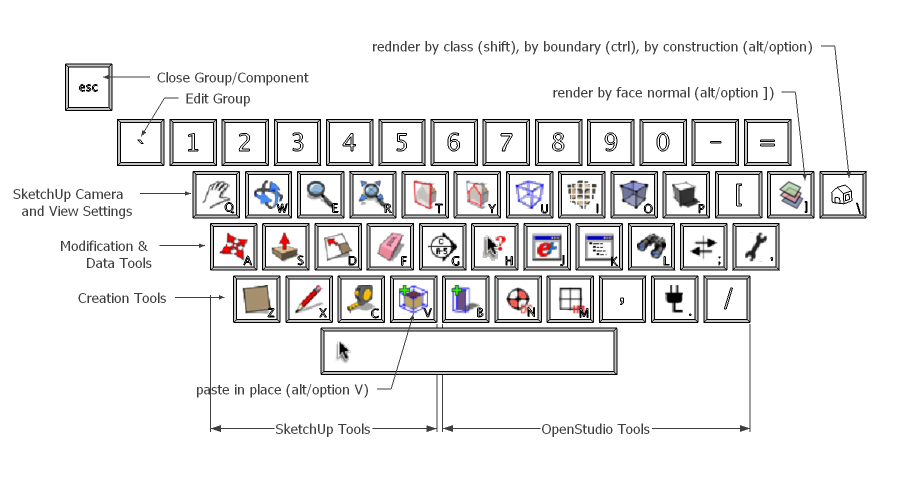
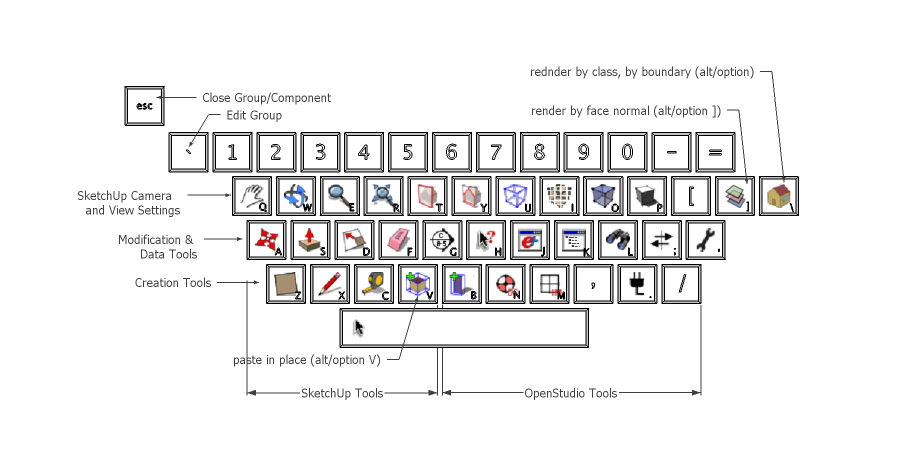
Updated round window tutorial. New by boundary tutorial, updated mac shortcut file, and new run file for mac with corrected permissions.

Changed region(s): [[0.0, 0.1244, 0.9644, 0.84], [0.2178, 0.84, 0.84, 0.9333], [0.4044, 0.0933, 0.9333, 0.1244]]

diff --git a/OpenStudio/doc/help/tut_round_window.html b/OpenStudio/doc/help/tut_round_window.html
@@ -108,7 +108,7 @@ function msout(num) {
 <ul>
 
     <li>As a rule of them in OpenStudio, you do not want to have a sub-surface share an edge with with another sub-surface or it's base surface. The exception is a door, which shares an edge with the bottom of it's base surface.</li>
-    <li>Another rule to follow is to only make subsurfaces as rectangles or triangles, not complex polygons, such as the object shown below. (note: complex polygons are fine for base surfaces such as walls and roofs)</li>
+    <li>Another rule to follow is to only make subsurfaces as rectangles, not complex polygons, such as the object shown below. (note: complex polygons are fine for base surfaces such as walls and roofs)</li>
     <br>
    <img src="dialogs/tut_round_win_01.png" width="500" alt=""><br></li>
          <P2i>(Credit: David Goldwasser/NREL)</P2i><br><br>
@@ -124,35 +124,35 @@ function msout(num) {
    <img src="dialogs/tut_round_win_03.png" width="500" alt=""><br></li>
          <P2i>(Credit: David Goldwasser/NREL)</P2i><br><br>
 
-    <li>Below shows a strategy to simply the surface while maintaining a good approximation of its size and geometry.</li>
-    <li>The circle is bisected with a triangle. Then to further refine it two more triangles are drawn bisecting the two circular segments. You could further refine it with more triangles, but three seems accurate enough here.</li>
+    <li>Shown below is a strategy to simply the surface while maintaining a good approximation of its size and geometry.</li>
+    <li>The semi-circle is filled with a series of rectangles.</li>
     <br>
-   <img src="dialogs/tut_round_win_04.png" width="500" alt=""><br></li>
+   <img src="dialogs/tut_round_win_04b.png" width="500" alt=""><br></li>
          <P2i>(Credit: David Goldwasser/NREL)</P2i><br><br>
 
-    <li>After drawing the circles, use the erase tool to remove the edges that were not included as part of the three triangles. This includes the segmented edges of the original offset semicircle.</li><br>
-   <img src="dialogs/tut_round_win_05.png" width="500" alt=""><br></li>
+    <li>After drawing the circles, use the erase tool to remove the edges that were not included as part of the rectangles. This includes the segmented edges of the original offset semicircle.</li><br>
+   <img src="dialogs/tut_round_win_05b.png" width="500" alt=""><br></li>
          <P2i>(Credit: David Goldwasser/NREL)</P2i><br><br>
 
-    <li>So now the windows are the correct geometry (triangles or rectangles), but there is still a problem.</li>
-    <li>The windows are sharing edges with each other, that has to be resolved.</li>
-    <li>Below the Offset Tool is used again to offset the main triangle in. 2&quot; was used, but you could make it 1/4&quot; if you wanted to.</li>
-    <li>Repeat this on the smaller triangles as well as shown below.</li>
+    <li>The windows are the correct geometry, but there is still a problem.</li>
+    <li>The windows are sharing edges with each other.</li>
+    <li>Below the Offset Tool is used  to offset the rectangles by two inches,  but you can use any value that works for </li>
     <br>
-    <img src="dialogs/tut_round_win_06.png" width="500" alt=""><br>
+    <img src="dialogs/tut_round_win_06b.png" width="500" alt=""><br>
     </li>
+         <P2i>(Credit: David Goldwasser/NREL)</P2i>
+         <br><br>
+
+    <li>Use the eraser tool to remove the edges of the original rectangles.</li><br>
+   <img src="dialogs/tut_round_win_07b.png" width="500" alt=""><br></li>
          <P2i>(Credit: David Goldwasser/NREL)</P2i><br><br>
 
-    <li>Use the eraser tool to remove the edge of the main triangle.</li><br>
-   <img src="dialogs/tut_round_win_07.png" width="500" alt=""><br></li>
+    <li>When subsurfaces have been drawn touching they may loose their base surface. If that happens you can retrace the rectangles, or cut them and paste in place (make sure edges selected, but not faces).</li><br>
+   <img src="dialogs/tut_round_win_08b.png" width="500" alt=""><br></li>
          <P2i>(Credit: David Goldwasser/NREL)</P2i><br><br>
 
-    <li>Below you can see the final product.</li><br>
-   <img src="dialogs/tut_round_win_08.png" width="500" alt=""><br></li>
-         <P2i>(Credit: David Goldwasser/NREL)</P2i><br><br>
-
-    <li>The surface area of your new window area will be slightly smaller than your original window that represents what is going to be built. This may be addressed by the fact that the window will have mullions, so the smaller one may actually be more accurate.</li>
-    <li>If you do want to really get a simulation based on the larger area, you can scale your windows up if your base surface provides enough space, or you can alter the material properties of the window construction used in this instance to make it slightly more translucent (mimicking a slightly larger surface). Just be careful if you choose this route, ad you do not want to alter the property in other areas using that material. So you need to make a unique window construction for this use.</li>
+    <li>The surface area of your new windows will be slightly smaller than your original window. </li>
+    <li>If you  want to really get a simulation based on the larger area, you can scale your windows up if your base surface provides enough space, or you can alter the material properties of the window construction used in this instance to make it slightly more translucent (mimicking a slightly larger surface). Just be careful if you choose this route. You do not want to alter the property in other areas using that window type. You need to make a unique window construction for this location.</li>
     <br>
 
 </ul>

diff --git a/OpenStudio/doc/help/tut_by_boundary.html b/OpenStudio/doc/help/tut_by_boundary.html
@@ -1,6 +1,7 @@
 <!DOCTYPE HTML PUBLIC "-//W3C//DTD HTML 4.01 Transitional//EN">
 <html>
 <head>
+<A NAME="top"></A>
 <title>OpenStudio Documentation: Tutorials</title>
 
 
@@ -83,7 +84,7 @@ function msout(num) {
 
 <a href="ref_guide.html" onMouseOver="msover('0')" onMouseOut="msout('0')"><img src="images/ln_ref_guide_off.gif" alt="Reference Guide" width="176" height="19" border="0" name="Image0"></a><br>
 <img src="images/gray.gif" alt="" width="176" height="7"><br>
-<img src="images/ln_tutorials_on.gif" alt="Tutorials" width="176" height="19" border="0" name="Image1"><br>
+<a href="tutorials.html"><img src="images/ln_tutorials_on.gif" alt="Tutorials" width="176" height="19" border="0" name="Image1"></a><br>
 <img src="images/gray.gif" alt="" width="176" height="7"><br>
 <a href="release_notes.html" onMouseOver="msover('2')" onMouseOut="msout('2')"><img src="images/ln_release_notes_off.gif" alt="Release Notes" width="176" height="19" border="0" name="Image2"></a><br>
 <img src="images/gray.gif" alt="" width="176" height="7"><br>
@@ -100,61 +101,62 @@ function msout(num) {
 
 
 
-<H2>Tutorials on OpenStudio Features</H2>
-<ul>
-<li><a href="tut_getting_started.html">Getting Started</a></li>
-<li><a href="tut_best_practices.html">Best Practices</a></li>
-<li><a href="tut_default_const_prefs.html">Default Constructions</a>
-  <P2i>(New)</P2i>
-</li>
-<li><a href="tut_matching_surfaces.html">Matching Surfaces</a>
-  <P2i>(New)</P2i>
-</li>
-<li><a href="tut_searching.html">Searching for EnergyPlus Objects</a>
-  <P2i>(New)</P2i>
-</li>
-<li><a href="tut_by_boundary.html">Render by Outside Boundary Condition</a>
-  <P2i>(New)</P2i>
-</li>
-<li><a href="tut_loads.html">Zone Loads</a>
-  <P2i>(New)</P2i>
-</li>
-<li><a href="tut_daylighting_controls.html">Daylighting Controls</a>
-  <P2i>(New)</P2i>
-</li>
-<li> <a href="tut_illuminance_map.html">Output Illuminance Maps</a>
-  <P2i>(New)</P2i>
-</li>
-<li><a href="tut_run_simulation.html">Run EnergyPlus</a></li>
-<li><a href="tut_view_results.html">View Simulation Results</a></li>
-<li><a href="tut_energyplus_dxf.html">Verify Geometry with EnergyPlus DXF Output</a></li>
-<li><a href="tut_cad_dxf.html">Convert 2D DXF to EnergyPlus</a></li>
-<li><a href="tut_building_maker.html">Convert 3-D CAD Models to EnergyPlus</a></li>
-</ul>
+<H2>Render by Outside Boundary Condition</H2>
+<br>
 
-<H2>Tutorials on native SketchUp Tools</H2>
+<div style="margin-left:10px">
 <ul>
-<!--<li><a href="tut_save_search.html"> Saving search results for later use</a></li><br>-->
-<li><a href="tut_reversed_normals.html">Using Styles to Show Reversed Faces</a></li>
-<li><a href="tut_round_window.html">Using the Offset Tool to Mimic Round Windows</a></li>
-<li><a href="tut_tips.html">Selection, Modeling, and Inference</a></li>
-<li><a href="tut_section_cut.html">Cameras, Scenes, and Sections Cuts</a></li>
-<li><a href="tut_shortcuts.html">Custom Shortcuts</a></li>
-<li><a href="tut_georeferencing.html">Geo-Referencing</a></li>
-<li><a href="tut_rotating.html">Rotating Axes and Cameras</a></li>
-<li><a href="tut_disabling_extensions.html">Disabling Extensions</a></li>
+    <li>The  typical rendering mode (shown below) in OpenStudio renders surfaces based on the class of the surface. For example, doors have a color, roofs, etc.</li>
+    <li>Render by Outside Boundary Condition instead renders surfaces based on their boundary condition.</li>
+    <li>If a wall and a floor have the same boundary condition, they would be rendered with the same color.<br>
+      <br>
+      <img src="dialogs/tut_RenderByBoundary_01.png" width="500" alt=""><br>
+    </li>
+  <P2i>(Credit: David Goldwasser/NREL)</P2i>
+  <br><br>
+</li>
 </ul>
+</div>
 
-<H2>Viewing Simulation Results Outside of OpenStudio</H2>
+<div style="margin-left:10px">
 <ul>
-<!--<li><a href="tut_save_search.html"> Saving search results for later use</a></li><br>-->
-<li><a href="tut_results_excel.html">Opening CSV files in Microsoft Excel</a></li>
-<li><a href="tut_results_viewer.html">Opening SQL files in Results Viewer</a></li>
+    <li>Here is the same model as shown above, but this time with the render mode set to &quot;by boundary&quot;. The tan is &quot;ground&quot; blue is &quot;outside&quot;, and the green represents &quot;surface&quot; boundary conditions. this is where surfaces of one zone are matched with surfaces of another zone.</li>
+    <li>If you look at the exterior of a model, you should see a lot of blue. If you want to see what is going on inside, the section cut tool works great. You can also turn on x-ray mode, but it can be tough to see what you are looking at.<br>
+      <br>
+      <img src="dialogs/tut_RenderByBoundary_02.png" width="500" alt=""><br>
+    </li>
+  <P2i>(Credit: David Goldwasser/NREL)</P2i>
+  <br>
+    <li>Below is an example with x-ray mode turned on.<br>
+      <br>
+      <img src="dialogs/tut_RenderByBoundary_05.png" width="500" alt=""><br>
+    </li>
+  <P2i>(Credit: David Goldwasser/NREL)</P2i>
+  <br><br></li>
 </ul>
+</div>
 
-					</td>
+<div style="margin-left:10px">
+<ul>
+    <li>There are 18 different colors for the outside boundary conditions.</li>
+    <li>Some of these are grouped. Four are outside conditions, and 9 are ground conditions.</li>
+    <li>Look at EnergyPlus's documentation to learn more about the boundary conditions.<br>
+      <br>
+      <img src="dialogs/tut_BoundaryColorWorksheet.png" width="500" alt=""><br>
+    </li>
+  <P2i>(Credit: David Goldwasser/NREL)</P2i>
+  <br><br>
+</li>
+</ul>
+</div>
+
+
+
+
+				  </td>
 				</tr>
 			</table>
+<P2i><A href="#top">Back to Top</A></P2i>
 <!-- end of main content table -->
 
 

diff --git a/OpenStudio/doc/help/ref_rendering.html b/OpenStudio/doc/help/ref_rendering.html
@@ -106,12 +106,25 @@ function msout(num) {
 <a href="ref_simulations.html#top">Running Simulations/Help</a><br>
 </H2>
 
-<H2>Rendering Options</H2>
-<P2><a href="ref_rendering.html#hide_rest"><img src="../../lib/resources/icons/HideRest-16.png"> Hide Rest of Model</a></P2><P2i>(Native SketchUp Feature)</P2i><br>
-<P2><a href="ref_rendering.html#view_hidden"><img src="../../lib/resources/icons/SU_ViewHidden-16.png"> View Hidden Geometry</a></P2><P2i>(Native SketchUp Feature)</P2i><br>
-<P2><a href="ref_rendering.html#x_ray"><img src="../../lib/resources/icons/tbRenderTransparentSmall.png"> View Model in X-ray Mode</a></P2><P2i>(Native SketchUp Feature)</P2i><br>
+<H2><a href="ref_rendering.html#top">Rendering Options</a></H2>
+<P2><a href="ref_rendering.html#hide_rest"><img src="../../lib/resources/icons/HideRest-16.png"> Hide Rest of Model</a></P2>
+<P2i> (Native SketchUp Feature)</P2i><br>
+<P2><a href="ref_rendering.html#view_hidden"><img src="../../lib/resources/icons/SU_ViewHidden-16.png"> View Hidden Geometry</a></P2>
+<P2i> (Native SketchUp Feature)</P2i><br>
+<P2><a href="ref_rendering.html#x_ray"><img src="../../lib/resources/icons/tbRenderTransparentSmall.png"> View Model in X-ray Mode</a></P2>
+<P2i> (Native SketchUp Feature)</P2i><br>
 <P2><a href="ref_rendering.html#render_by_surface"><img src="../../lib/resources/icons/RenderByType-16x16.png"> Render by Surface Class</a></P2><br>
 <P2><a href="ref_rendering.html#render_by_data"><img src="../../lib/resources/icons/RenderByData-16x16.png"> Render by Data</a></P2><br>
+<P2><a href="ref_rendering.html#render_by_boundary"><img src="../../lib/resources/icons/RenderByBoundary-16x16.png"> Render by Outside Boundary Condition</a></P2> 
+<P2><a href="ref_view_data.html#default_const_prefs"> </a></P2>
+<P2i>(New)</P2i>
+<br>
+<P2><a href="ref_rendering.html#render_by_layer"> Render by Layer</a></P2> 
+<P2i>(Native SketchUp Feature)</P2i>
+<br>
+<P2><a href="ref_rendering.html#render_by_normal"> Render by Surface Normal</a></P2> 
+<P2i>(Native SketchUp Feature)</P2i>
+<br>
 <P2><a href="ref_rendering.html#render_settings"><img src="../../lib/resources/icons/RenderSettings-16x16.png"> Render Settings</a></P2><br>
 <P2><a href="ref_rendering.html#color_scale"><img src="../../lib/resources/icons/ColorScale-16x16.png"> Color Scale</a></P2><br>
 <P2><a href="ref_rendering.html#results_data_tool"><img src="../../lib/resources/icons/DataTool-16x16.png"> Simulation Results Data Tool</a></P2><br>
@@ -171,6 +184,40 @@ function msout(num) {
 <div style="margin-left:20px">
     <P>Once you load the ESO file, select the run period, and  select the data variable, you can use the Render by Data command to view the  model colored by the data value. Surfaces or zones are colored by the variable  value at a given time. To change the time, use the SketchUp Shadow Settings  control (Window-&gt;Shadows). If the time is outside the current run period, no  values will display. You can display a color bar or use the data value cursor  to reference the absolute values of the variable. </P>
 <br><img src="dialogs/tut_rendering_03.png" alt="" width="500"><br>
+     <P2i>(Credit: David Goldwasser/NREL)</P2i><br><br>
+</div>
+<P2i><A href="#top">Back to Top</A></P2i><br><br>
+
+<A NAME="render_by_boundary"></A>
+<H3><a href="ref_rendering.html#render_by_data"><img src="../../lib/resources/icons/RenderByBoundary-16x16.png" alt=""></a> Render by Boundary  
+  <P2><a href="ref_view_data.html#default_const_prefs"> </a></P2>
+  <P2i>(New)</P2i>
+</H3>
+<div style="margin-left:20px">
+    <P>This is a good rendering mode to diagnose problems with your model. It colors surface by their outside boundary conditions. It provides a quickly way to globally look at boundary conditions throughout your model.</P>
+<br><img src="dialogs/tut_RenderByBoundary_02.png" alt="" width="500"><br>
+     <P2i>(Credit: David Goldwasser/NREL)</P2i><br><br>
+</div>
+<P2i><A href="#top">Back to Top</A></P2i><br><br>
+
+<A NAME="render_by_layer"></A>
+<H3>Render by Layer 
+  <P2i>(Native SketchUp Feature)</P2i>
+</H3>
+<div style="margin-left:20px">
+    <P>This will render content by layer. You can create zones to represent anything you want to track. For example space types. Create or zones on these layers, or move the to this layer. Keep in mind, that the layer structure isn't saved with the IDF file, so any layer's you setup are just for your current session.</P>
+<br><img src="dialogs/tut_layers_02.png" alt="" width="500"><br>
+     <P2i>(Credit: David Goldwasser/NREL)</P2i><br><br>
+</div>
+<P2i><A href="#top">Back to Top</A></P2i><br><br>
+
+<A NAME="render_by_normal"></A>
+<H3>Render by Normal 
+  <P2i>(Native SketchUp Feature)</P2i>
+</H3>
+<div style="margin-left:20px">
+    <P>This rendering style only has two colors. Red or white. White represents the front of a face/surface, while red represents the back of a face/surface. This is a good diagnostic tool to look for reversed faces. Normally red would be inside of the building, and white outside, but if faces are reversed, the model could appear similar to below.</P>
+<br><img src="dialogs/tut_normal_02.png" alt="" width="500"><br>
      <P2i>(Credit: David Goldwasser/NREL)</P2i><br><br>
 </div>
 <P2i><A href="#top">Back to Top</A></P2i><br><br>

diff --git a/OpenStudio/doc/help/tut_shortcuts.html b/OpenStudio/doc/help/tut_shortcuts.html
@@ -131,11 +131,11 @@ function msout(num) {
          <ul>
            <li>Camera Tools (pan, orbit, zoom, zoom extents)</li>
            <li>Section Tools (view/hide section plane, view/hide section cut)</li>
-           <li>View Tools (view/hide rest of model, view/hide hidden geometry, x-ray mode, shadows, color by layer, render by face normal, render by class)</li>
+           <li>View Tools (view/hide rest of model, view/hide hidden geometry, x-ray mode, shadows, color by layer, render by face normal, render by class, render by boundary)</li>
          </ul>
     <li>The left side of the middle row has tools to modify  geometry.</li>
 <ul>
-<li>Move, Push/Pull, Scale, Make Section Cut</li>
+<li>Move, Push/Pull, Scale, Eraser, Make Section Cut</li>
 </ul>
     <li>The right side of the middle row has tools for viewing OpenStudio data.</li>
 <ul>
@@ -143,7 +143,7 @@ function msout(num) {
 </ul>
     <li>The bottom row is for tools to create  geometry and objects.</li>
 <ul>
-<li>Rectangle, Line, Tape Measure (for guide lines), Eraser</li>
+<li>Rectangle, Line, Tape Measure (for guide lines)</li>
 <li>New Zone, New Shading Group, New Daylighting Controls, New Illuminance Map, Zone Loads</li>
 </ul>
      <li>The Escape key is set to SketchUp's default shortcut to exit from a group or component.</li>

diff --git a/OpenStudio/doc/help/ref_guide.html b/OpenStudio/doc/help/ref_guide.html
@@ -137,6 +137,9 @@ function msout(num) {
 <P2><a href="ref_rendering.html#x_ray"><img src="../../lib/resources/icons/tbRenderTransparentSmall.png"> View Model in X-ray Mode</a></P2><P2i>(Native SketchUp Feature)</P2i><br>
 <P2><a href="ref_rendering.html#render_by_surface"><img src="../../lib/resources/icons/RenderByType-16x16.png"> Render by Surface Class</a></P2><br>
 <P2><a href="ref_rendering.html#render_by_data"><img src="../../lib/resources/icons/RenderByData-16x16.png"> Render by Data</a></P2><br>
+<P2><a href="ref_rendering.html#render_by_boundary"><img src="../../lib/resources/icons/RenderByBoundary-16x16.png"> Render by Outside Boundary Condition</a></P2><br>
+<P2><a href="ref_rendering.html#render_by_layer"> Render by Layer</a></P2><br>
+<P2><a href="ref_rendering.html#render_by_normal"> Render by Surface Normal</a></P2><br>
 <P2><a href="ref_rendering.html#render_settings"><img src="../../lib/resources/icons/RenderSettings-16x16.png"> Render Settings</a></P2><br>
 <P2><a href="ref_rendering.html#color_scale"><img src="../../lib/resources/icons/ColorScale-16x16.png"> Color Scale</a></P2><br>
 <P2><a href="ref_rendering.html#results_data_tool"><img src="../../lib/resources/icons/DataTool-16x16.png"> Simulation Results Data Tool</a></P2><br>

diff --git a/OpenStudio/doc/help/tut_reversed_normals.html b/OpenStudio/doc/help/tut_reversed_normals.html
@@ -113,10 +113,9 @@ function msout(num) {
 
    <br><img src="dialogs/tut_normal_01.png" alt="" width="500"></li><br>
    <P2i>(Credit: David Goldwasser/NREL)</P2i><br><br>
-   <li>Next is the same model with a custom style. For this style, under &quot;face settings&quot; the rendering option is set to &quot;display shaded using all same&quot;. By setting the front color to white and the back color to bright red reversed faces are readily apparent. This model was clean to start with, but reversed faces were added for demonstration.</li>
+   <li>Next is the same model with a custom style. For this style, under &quot;face settings&quot; the rendering option is set to &quot;display shaded using all same&quot;. By setting the front color to white and the back color to bright red reversed faces easily found. You can quickly switch to this view by choosing &quot;by surface normal&quot; from the OpenStudio/rendering menu. You can also set a ketyboard shortcut for this.</li>
    <br><img src="dialogs/tut_normal_02.png" alt="" width="500"></li><br>
    <P2i>(Credit: David Goldwasser/NREL)</P2i><br>
-   <br><li>You can create this style on your own, but it is also saved under OpenStudio/lib/resources/styles.</li>
  </ul>
 </div>
 
